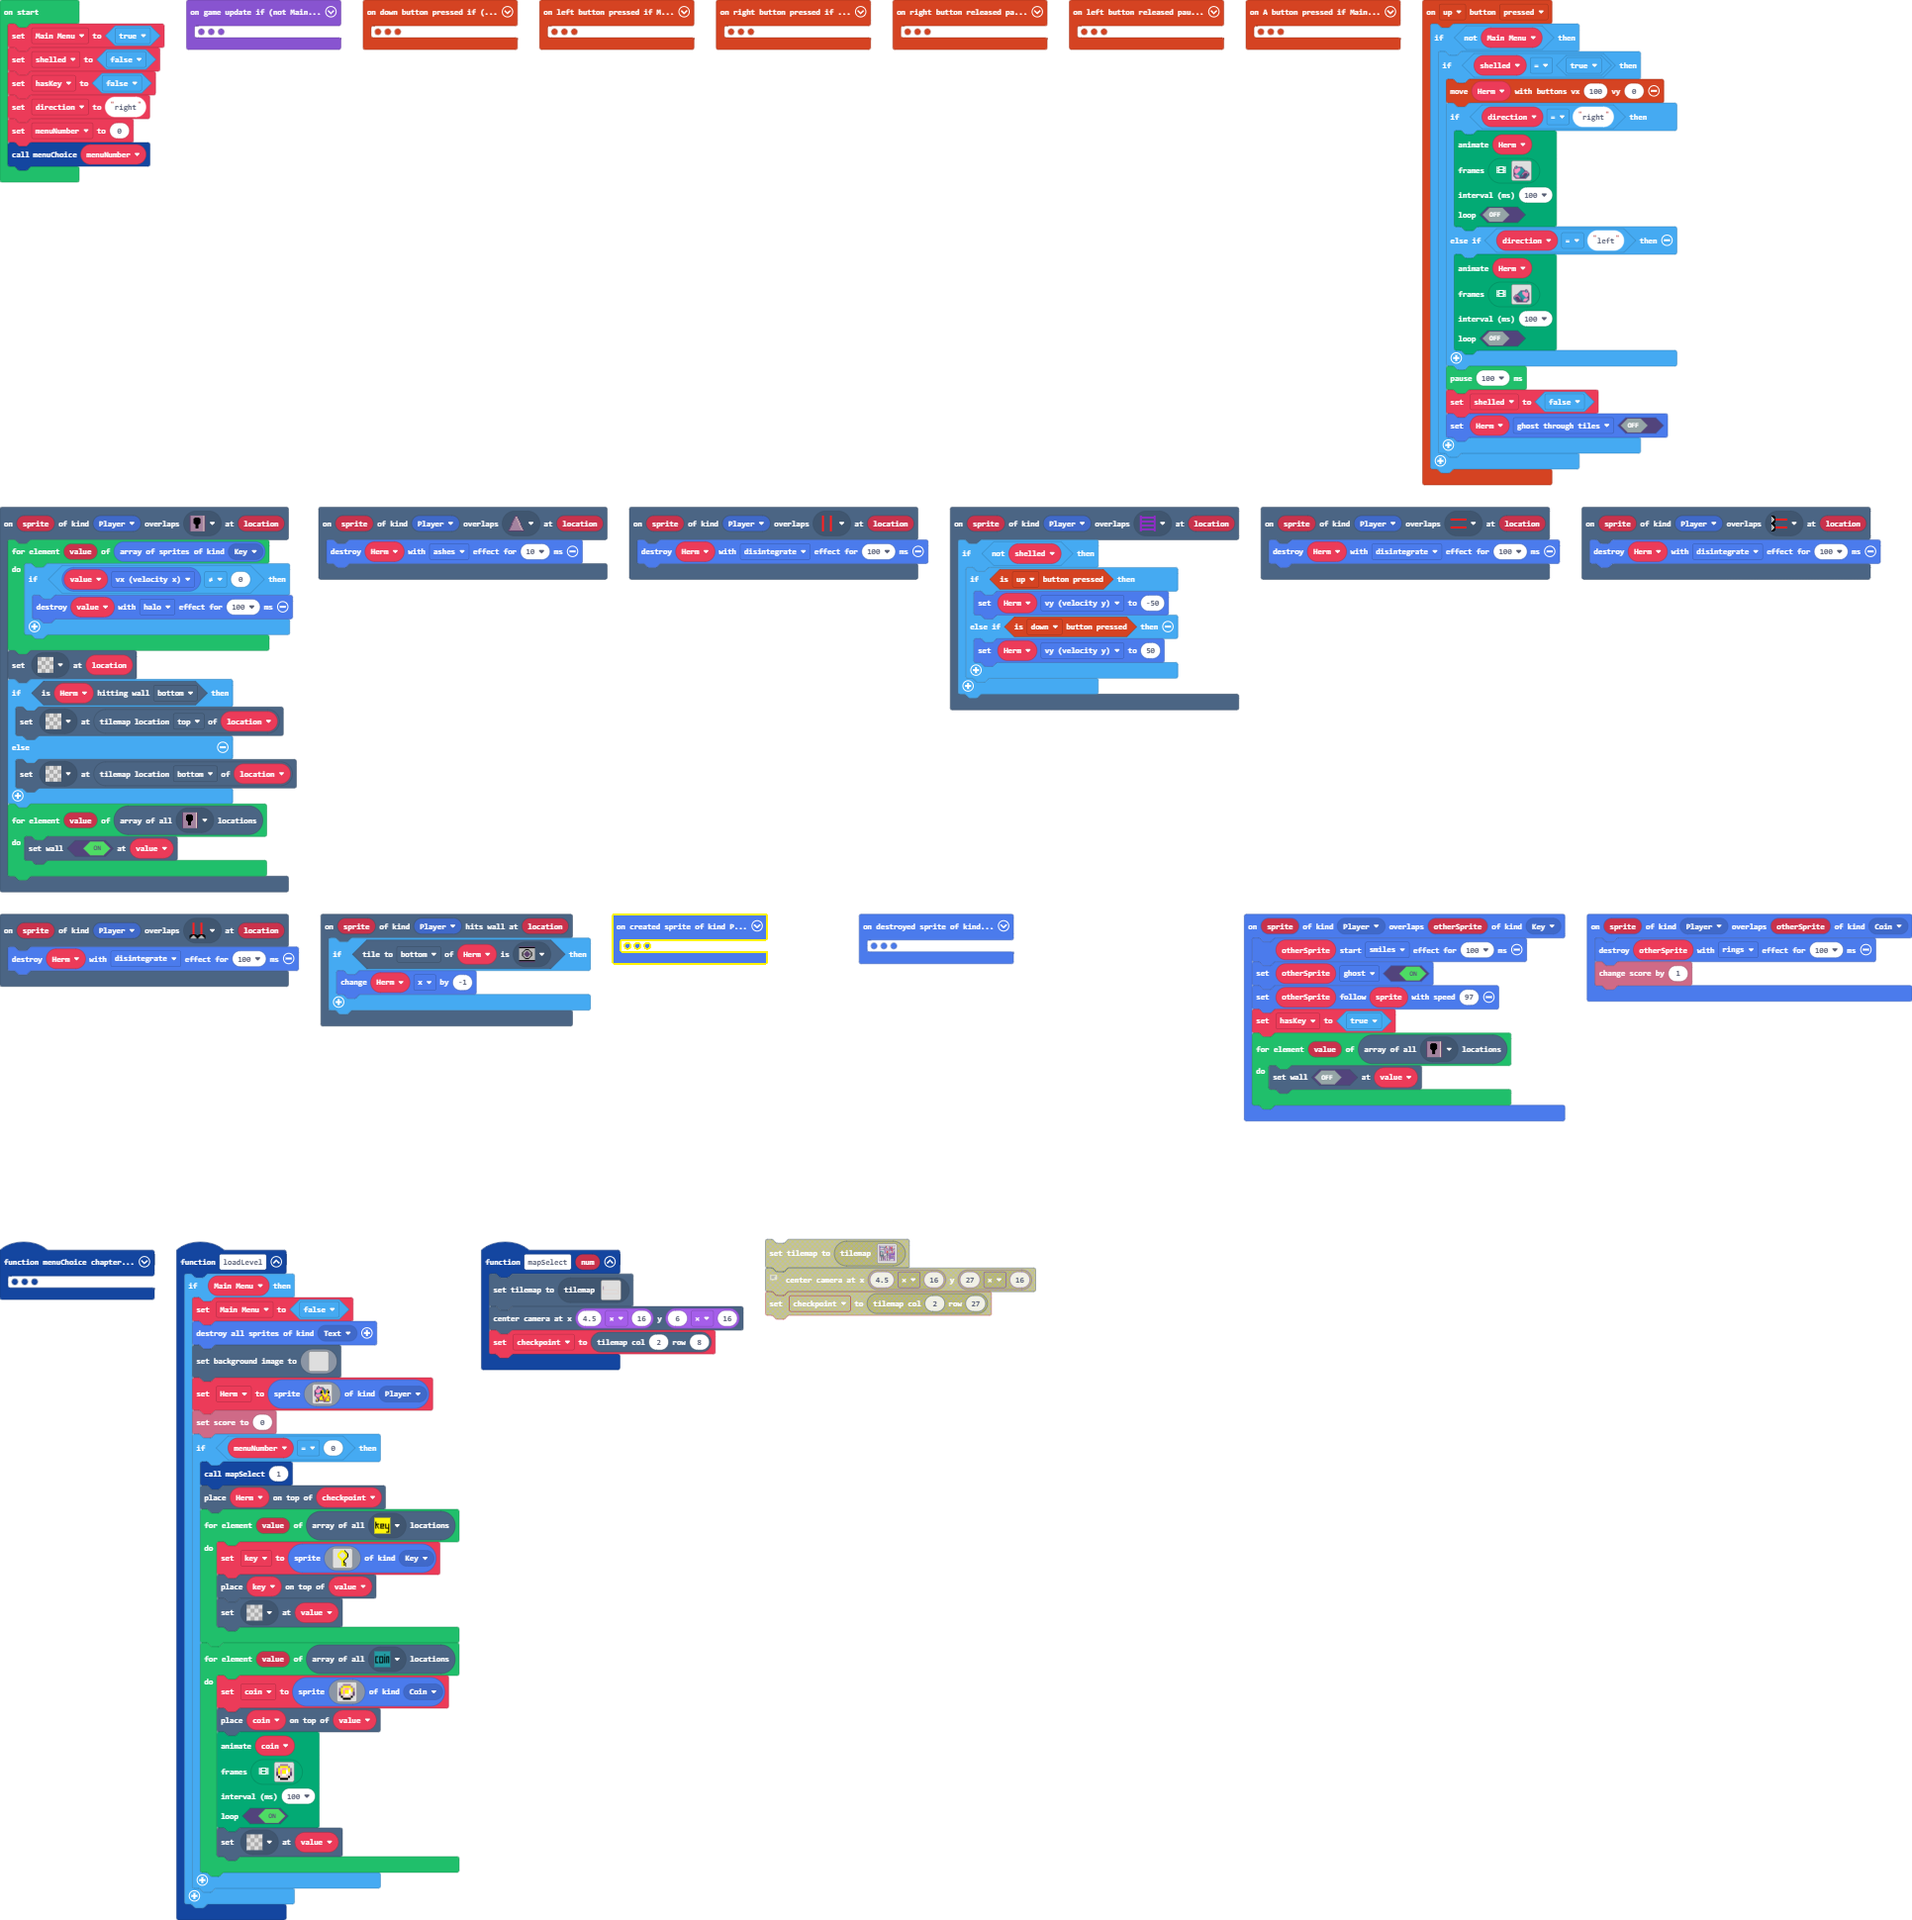
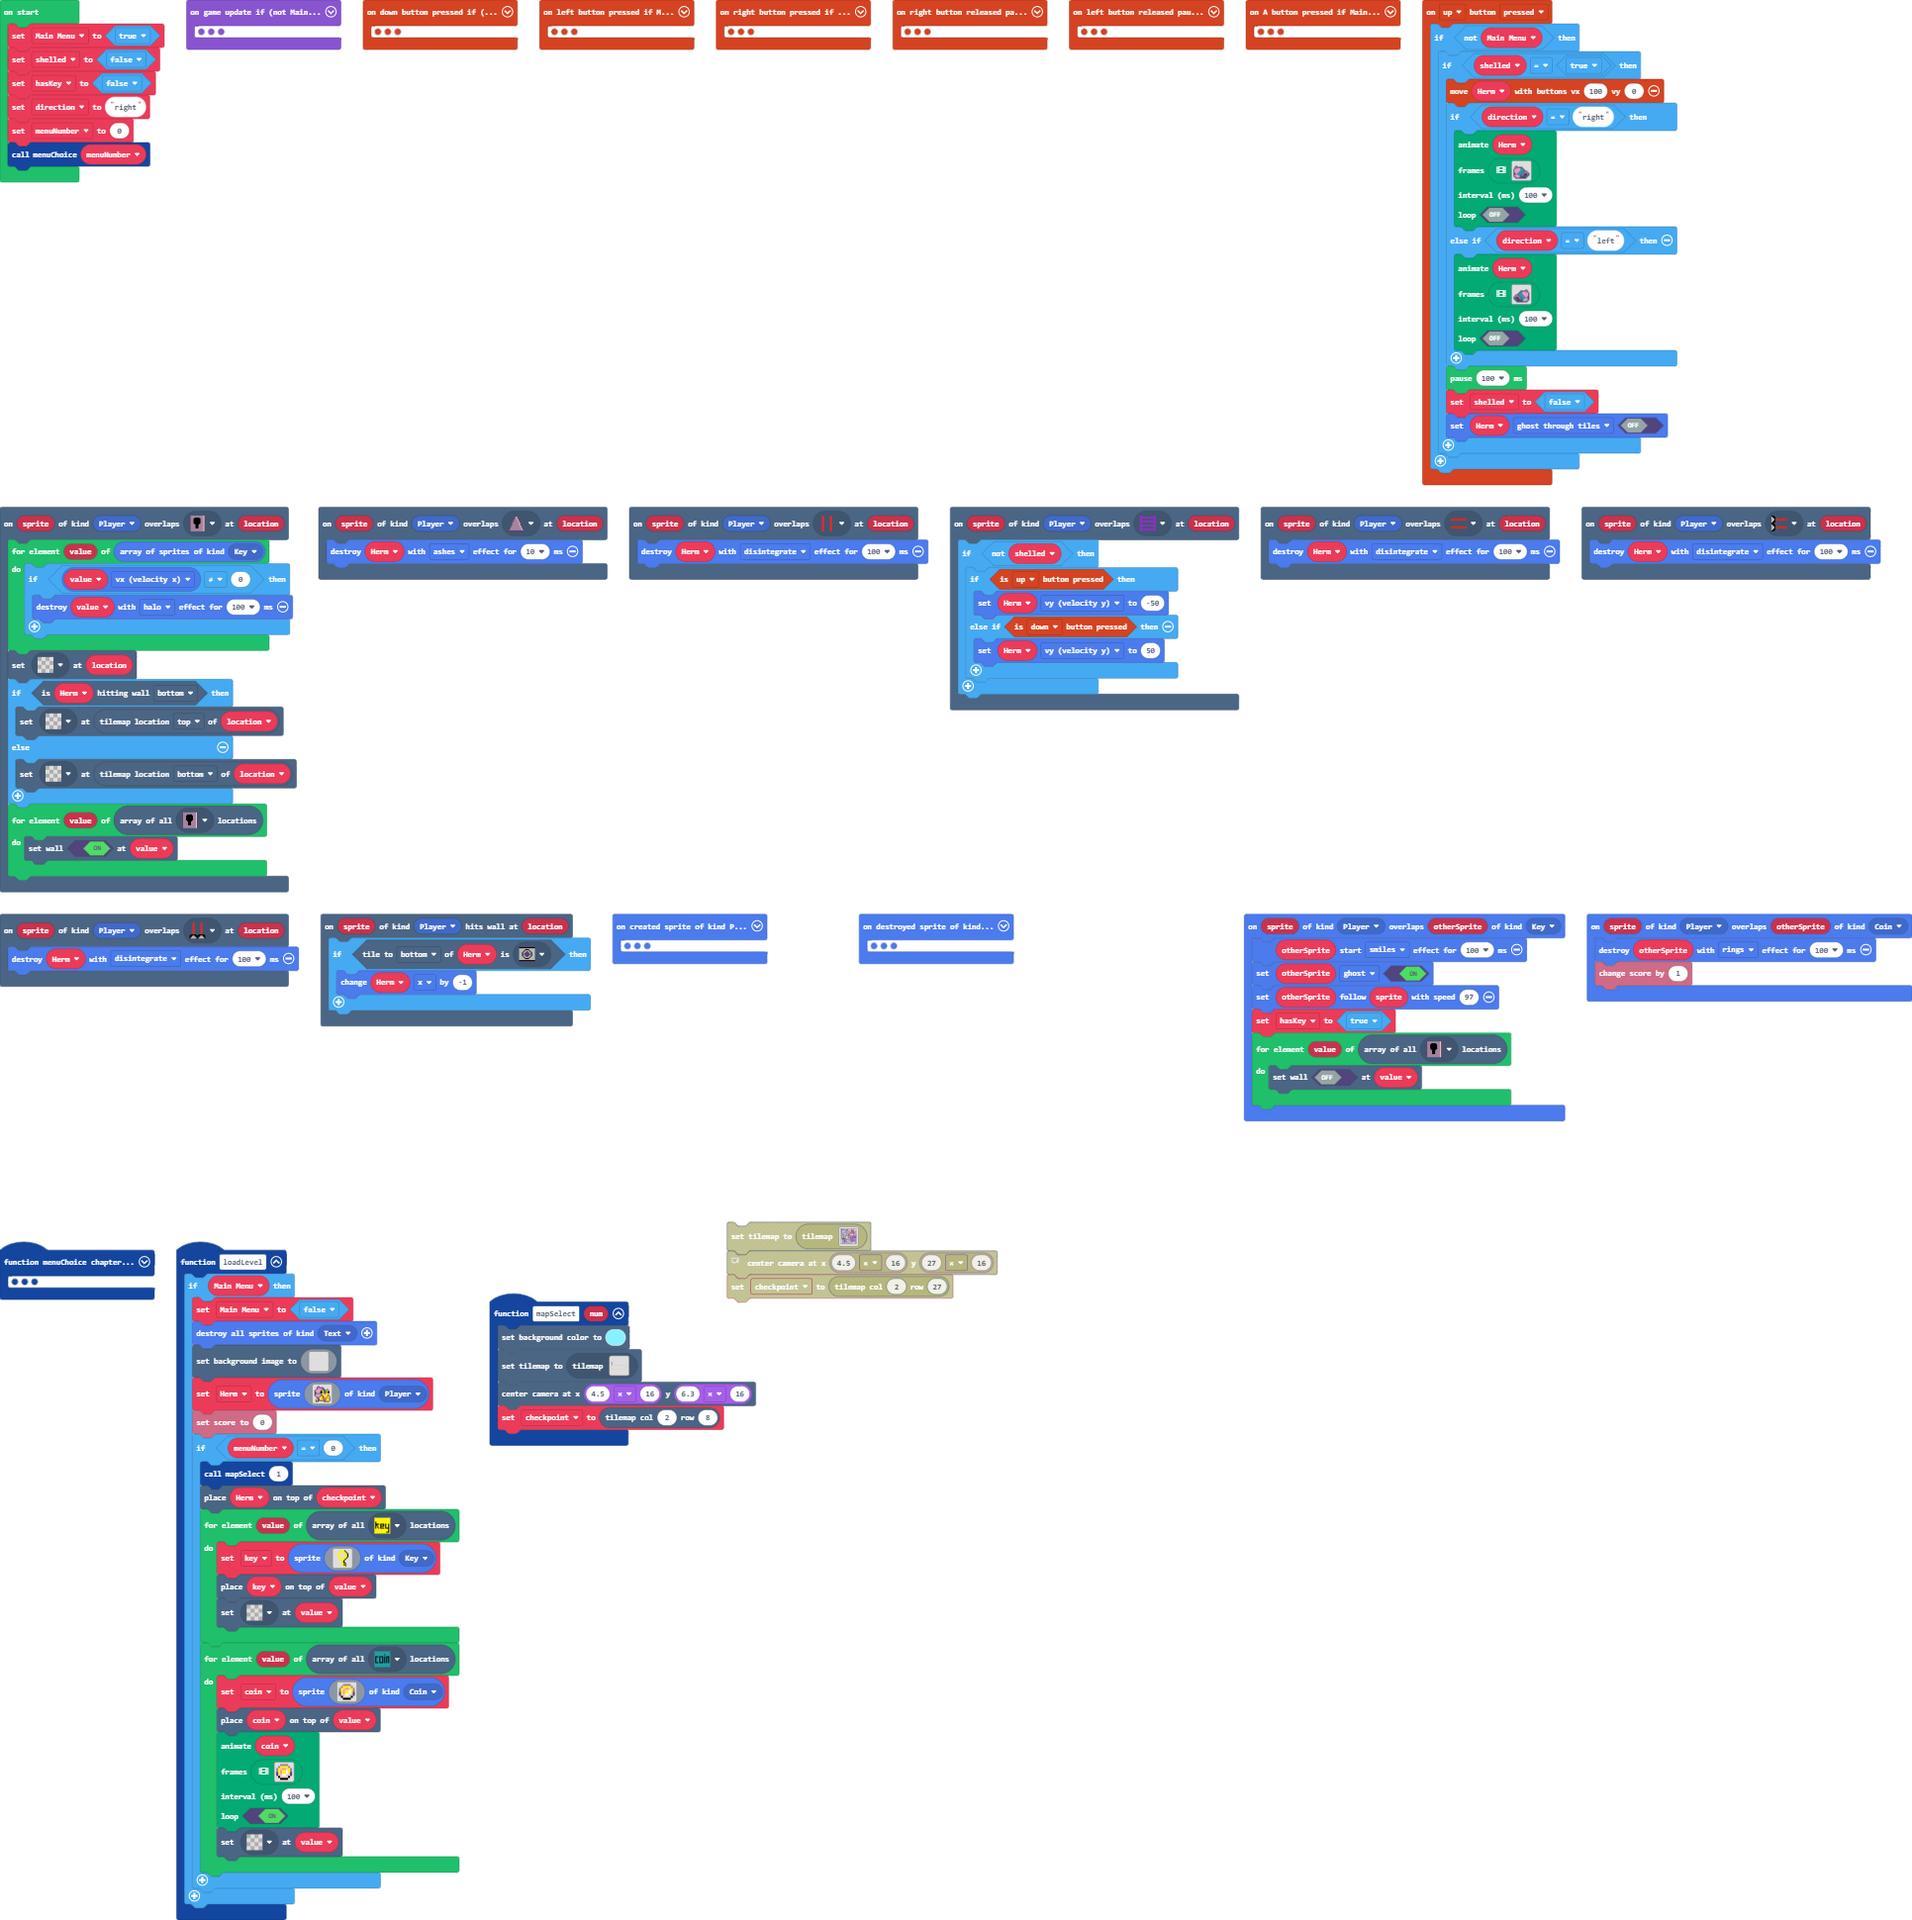
Update main.blocks, main.ts, tilemap.g.jres, tilemap.g.ts

Changed region(s): [[0.2484, 0.6186, 0.559, 0.7732]]

diff --git a/tilemap.g.ts b/tilemap.g.ts
@@ -148,7 +148,7 @@ namespace myTiles {
 . . . . . . . . . . . . . . . . 
 `, [myTiles.transparency16], TileScale.Sixteen);
             case "level6":
-            case "level6":return tiles.createTilemap(hex`2800130002020000010101010100000000000000000000000000000000000000000000000000000000000001020200000000000000000000000000000000000000000000000000000000000000000000000000010202000000000000000000000000000000000000000000000000000000000000000000000000000102020000000000000000000000000000000000000000000000000000000000000000000000000001020200000000000000000000000000000000000000000000000000000000000000000000000000010202000000000000000000000000000000000000000000000000000000000000000000000000000102020000000000000000000000000000000000000000000000000000000000000000000000000001020200000000000000000000000000000000000000000000000000000000000000000000000000010202000000000000000000000000000000000000000000000000000000000000000000000000000101010101010101010101010101010101010101010101010101010101010101010101010000000001010000000000000000000000000000000000000000000000000000000000000000000001000000010100000000000000000000000000000000000000000000000000000000000000000000000100000101000000000000000000000000000000000000000000000000000000000000000000000000010001010000000000000000000000000000000000000000000000000000000000000000000000000001010100000000000000000000000000000000000000000000000000000000000000000000000000000101000000000000000000000000000000000000000000000000000000000000000000000000000001010000000000000000000000000000000000000000000000000000000000000000000000000000010100000000000000000000000000000000000000000000000000000000000000000000000000000101010101010101010101010101010101010101010101010101010101010101010101010101010101`, img`
+            case "level6":return tiles.createTilemap(hex`2800130002020000010101010100000000000000000000000000000000000000000000000000000000000001020200000000000000000000000000000000000000000000000000000000000000000000000000010202000000000000000000000000000000000000000000000000000000000000000000000000000102020000000000000000000000000000000000000000000000000000000000000000000000000001020200000000000000000000000000000000000000000000000000000000000000000000000000010202000000000000000000000000000000000000000000000000000000000000000000000000000102020000000000000000000000000000000000000000000000000000000000000000000000000001020200000000000000000000000000000000000000000000000000000000000000000000000000010202000000000000000006000000000006000000000000060000000000000600000000000000000103040404050101010101010101010101010101010101010101010101010101010101010000000001010000000000000000000000000000000000000000000000000000000000000000000001000000010100000000000000000000000000000000000000000000000000000000000000000000000100000101000000000000000000000000000000000000000000000000000000000000000000000000010001010000000000000000000000000000000000000000000000000000000000000000000000000001010100000000000000000000000000000000000000000000000000000000000000000000000000000101000000000000000000000000000000000000000000000000000000000000000000000000000001010000000000000000000000000000000000000000000000000000000000000000000000000000010100000000000000000000000000000000000000000000000000000000000000000000000000000101010101010101010101010101010101010101010101010101010101010101010101010101010101`, img`
 22..22222..............................2
 22.....................................2
 22.....................................2
@@ -157,7 +157,7 @@ namespace myTiles {
 22.....................................2
 22.....................................2
 22.....................................2
-22.....................................2
+22........2.....2......2......2........2
 22222222222222222222222222222222222....2
 2..................................2...2
 2...................................2..2
@@ -168,7 +168,7 @@ namespace myTiles {
 2......................................2
 2......................................2
 2222222222222222222222222222222222222222
-`, [myTiles.transparency16,sprites.castle.tilePath5,myTiles.tile1], TileScale.Sixteen);
+`, [myTiles.transparency16,sprites.castle.tilePath5,myTiles.tile1,sprites.castle.tilePath1,sprites.castle.tilePath2,sprites.castle.tilePath3,sprites.builtin.forestTiles0], TileScale.Sixteen);
         }
         return null;
     })

diff --git a/main.ts b/main.ts
@@ -1134,8 +1134,9 @@ controller.down.onEvent(ControllerButtonEvent.Pressed, function () {
     }
 })
 function mapSelect (num: number) {
+    scene.setBackgroundColor(9)
     tiles.setCurrentTilemap(tilemap`level6`)
-    scene.centerCameraAt(4.5 * 16, 6 * 16)
+    scene.centerCameraAt(4.5 * 16, 6.3 * 16)
     checkpoint = tiles.getTileLocation(2, 8)
 }
 scene.onOverlapTile(SpriteKind.Player, assets.tile`myTile14`, function (sprite, location) {
